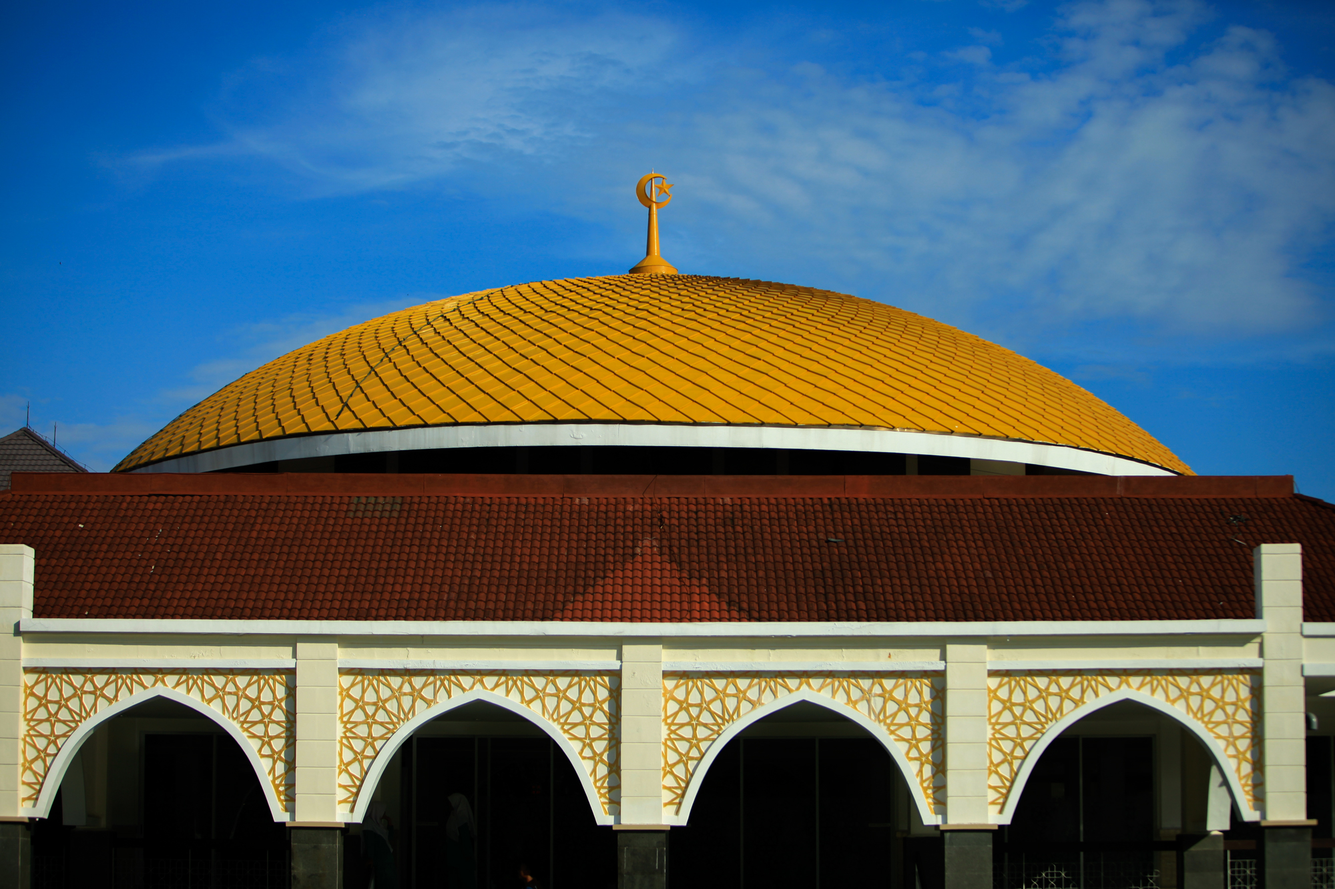
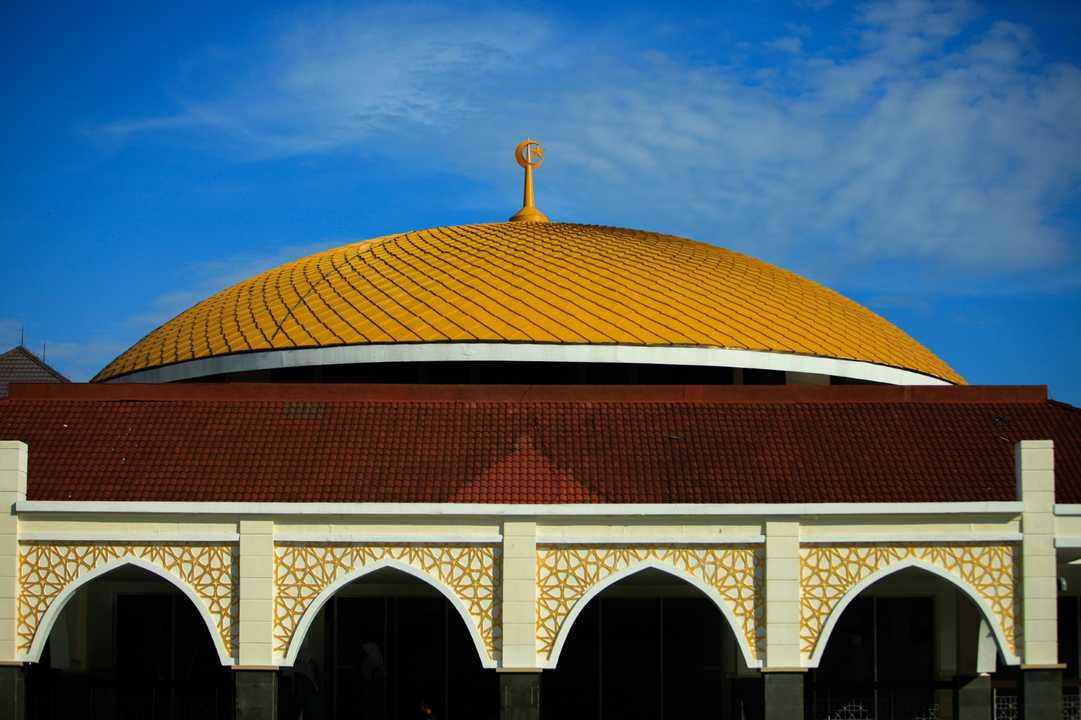
fixed img not showing, reduced img file size

Changed region(s): [[0.4012, 0.3056, 0.463, 0.3361], [0.3086, 0.3361, 0.3395, 0.3667]]

diff --git a/index.html b/index.html
@@ -49,7 +49,7 @@
         <section id="aktivitas-mesjid">
             <div class="container-flex">
                 <div class="website-imagesandcaption">
-                    <img src="/img/mesjid_kajian.JPG" alt="" height="300" width="300">
+                    <img src="img/mesjid_kajian.JPG" alt="" height="300" width="300">
                     <p>
                         Kajian Islam Ilmiah <br><br>
                         Sebelum pandemi, Mesjid Al-Ittihad setiap pekan mengadakan Kajian Islam Ilmiah
@@ -57,7 +57,7 @@
                     </p>
                 </div>
                 <div class="website-imagesandcaption">
-                    <img src="/img/mesjid_berbuka.JPG" alt="" height="300" width="300">
+                    <img src="img/mesjid_berbuka.JPG" alt="" height="300" width="300">
                     <p>
                         Berbuka Puasa Bersama <br><br>
                         Sebelum pandemi, Mesjid Al-Ittihad menyediakan makanan dan minuman
@@ -65,7 +65,7 @@
                     </p>
                 </div>
                 <div class="website-imagesandcaption">
-                    <img src="/img/mesjid_idain.JPG" alt="" height="300" width="300">
+                    <img src="img/mesjid_idain.JPG" alt="" height="300" width="300">
                     <p>
                         Sholat Idul Fitri dan Idul 'Adha <br><br>
                         Mesjid Al-Ittihad bekerjasama dengan Mesjid Da'wah dalam melaksanakan
